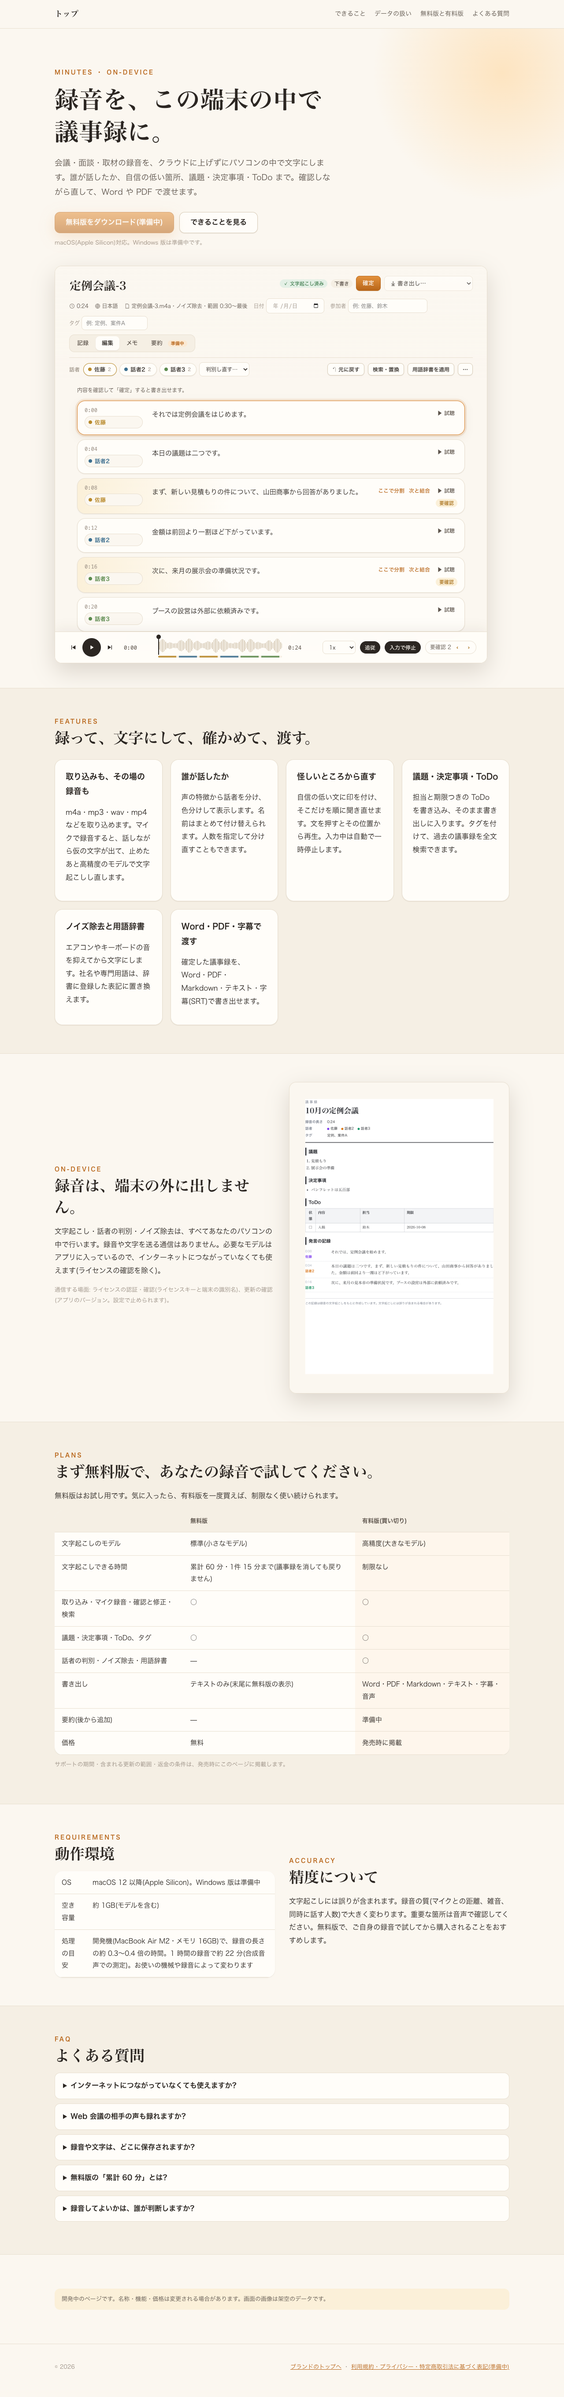
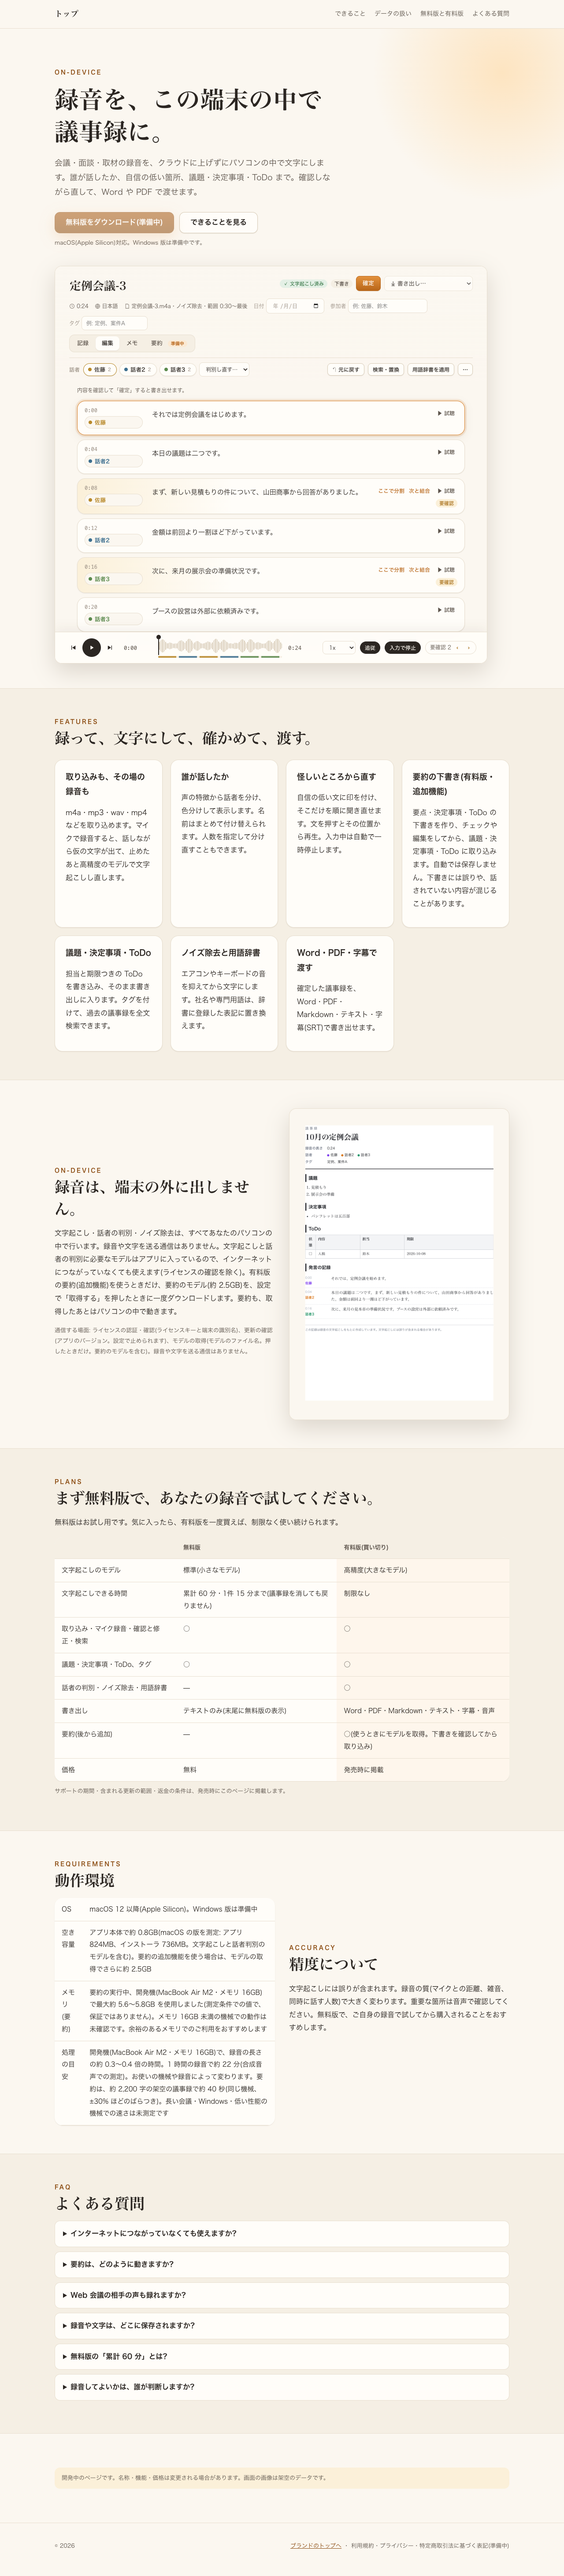
web: 要約の追加機能・空き容量・メモリの記載を実測に合わせて更新、文字色のコントラストとスマホ幅のはみ出し・リンク切れを修正

diff --git a/web/minutes/index.html b/web/minutes/index.html
@@ -5,6 +5,7 @@
   <meta name="viewport" content="width=device-width, initial-scale=1" />
   <title>録音を、この端末の中で議事録に</title>
   <meta name="description" content="会議や面談の録音を、クラウドに上げずにパソコンの中で文字起こし。話者・要確認・議題と ToDo までまとめる買い切りのアプリです。" />
+  <link rel="icon" href="data:," />
   <link rel="stylesheet" href="../site.css" />
 </head>
 <body>
@@ -23,7 +24,7 @@
   <main>
     <section class="hero">
       <div class="wrap">
-        <div class="eyebrow">MINUTES ・ ON-DEVICE</div>
+        <div class="eyebrow">ON-DEVICE</div>
         <h1>録音を、この端末の中で<br />議事録に。</h1>
         <p class="lead">会議・面談・取材の録音を、クラウドに上げずにパソコンの中で文字にします。誰が話したか、自信の低い箇所、議題・決定事項・ToDo まで。確認しながら直して、Word や PDF で渡せます。</p>
         <div class="cta">
@@ -43,6 +44,7 @@
           <div class="card"><h3>取り込みも、その場の録音も</h3><p>m4a・mp3・wav・mp4 などを取り込めます。マイクで録音すると、話しながら仮の文字が出て、止めたあと高精度のモデルで文字起こしし直します。</p></div>
           <div class="card"><h3>誰が話したか</h3><p>声の特徴から話者を分け、色分けして表示します。名前はまとめて付け替えられます。人数を指定して分け直すこともできます。</p></div>
           <div class="card"><h3>怪しいところから直す</h3><p>自信の低い文に印を付け、そこだけを順に聞き直せます。文を押すとその位置から再生。入力中は自動で一時停止します。</p></div>
+          <div class="card"><h3>要約の下書き(有料版・追加機能)</h3><p>要点・決定事項・ToDo の下書きを作り、チェックや編集をしてから、議題・決定事項・ToDo に取り込みます。自動では保存しません。下書きには誤りや、話されていない内容が混じることがあります。</p></div>
           <div class="card"><h3>議題・決定事項・ToDo</h3><p>担当と期限つきの ToDo を書き込み、そのまま書き出しに入ります。タグを付けて、過去の議事録を全文検索できます。</p></div>
           <div class="card"><h3>ノイズ除去と用語辞書</h3><p>エアコンやキーボードの音を抑えてから文字にします。社名や専門用語は、辞書に登録した表記に置き換えます。</p></div>
           <div class="card"><h3>Word・PDF・字幕で渡す</h3><p>確定した議事録を、Word・PDF・Markdown・テキスト・字幕(SRT)で書き出せます。</p></div>
@@ -55,8 +57,8 @@
         <div>
           <div class="eyebrow">ON-DEVICE</div>
           <h2>録音は、端末の外に出しません。</h2>
-          <p>文字起こし・話者の判別・ノイズ除去は、すべてあなたのパソコンの中で行います。録音や文字を送る通信はありません。必要なモデルはアプリに入っているので、インターネットにつながっていなくても使えます(ライセンスの確認を除く)。</p>
-          <p class="small">通信する場面: ライセンスの認証・確認(ライセンスキーと端末の識別名)、更新の確認(アプリのバージョン。設定で止められます)。</p>
+          <p>文字起こし・話者の判別・ノイズ除去は、すべてあなたのパソコンの中で行います。録音や文字を送る通信はありません。文字起こしと話者の判別に必要なモデルはアプリに入っているので、インターネットにつながっていなくても使えます(ライセンスの確認を除く)。有料版の要約(追加機能)を使うときだけ、要約のモデル(約 2.5GB)を、設定で「取得する」を押したときに一度ダウンロードします。要約も、取得したあとはパソコンの中で動きます。</p>
+          <p class="small">通信する場面: ライセンスの認証・確認(ライセンスキーと端末の識別名)、更新の確認(アプリのバージョン。設定で止められます)、モデルの取得(モデルのファイル名。押したときだけ。要約のモデルを含む)。録音や文字を送る通信はありません。</p>
         </div>
         <img class="shot" style="margin-top:0" src="../assets/minutes-pdf.png" alt="PDF に書き出した議事録の例(架空の内容)" />
       </div>
@@ -77,7 +79,7 @@
               <tr><td>議題・決定事項・ToDo、タグ</td><td>○</td><td class="pro">○</td></tr>
               <tr><td>話者の判別・ノイズ除去・用語辞書</td><td>—</td><td class="pro">○</td></tr>
               <tr><td>書き出し</td><td>テキストのみ(末尾に無料版の表示)</td><td class="pro">Word・PDF・Markdown・テキスト・字幕・音声</td></tr>
-              <tr><td>要約(後から追加)</td><td>—</td><td class="pro">準備中</td></tr>
+              <tr><td>要約(後から追加)</td><td>—</td><td class="pro">○(使うときにモデルを取得。下書きを確認してから取り込み)</td></tr>
               <tr><td>価格</td><td>無料</td><td class="pro">発売時に掲載</td></tr>
             </tbody>
           </table>
@@ -94,8 +96,9 @@
           <table>
             <tbody>
               <tr><td>OS</td><td>macOS 12 以降(Apple Silicon)。Windows 版は準備中</td></tr>
-              <tr><td>空き容量</td><td>約 1GB(モデルを含む)</td></tr>
-              <tr><td>処理の目安</td><td>開発機(MacBook Air M2・メモリ 16GB)で、録音の長さの約 0.3〜0.4 倍の時間。1 時間の録音で約 22 分(合成音声での測定)。お使いの機械や録音によって変わります</td></tr>
+              <tr><td>空き容量</td><td>アプリ本体で約 0.8GB(macOS の版を測定: アプリ 824MB、インストーラ 736MB。文字起こしと話者判別のモデルを含む)。要約の追加機能を使う場合は、モデルの取得でさらに約 2.5GB</td></tr>
+              <tr><td>メモリ(要約)</td><td>要約の実行中、開発機(MacBook Air M2・メモリ 16GB)で最大約 5.6〜5.8GB を使用しました(測定条件での値で、保証ではありません)。メモリ 16GB 未満の機械での動作は未確認です。余裕のあるメモリでのご利用をおすすめします</td></tr>
+              <tr><td>処理の目安</td><td>開発機(MacBook Air M2・メモリ 16GB)で、録音の長さの約 0.3〜0.4 倍の時間。1 時間の録音で約 22 分(合成音声での測定)。お使いの機械や録音によって変わります。要約は、約 2,200 字の架空の議事録で約 40 秒(同じ機械、±30% ほどのばらつき)。長い会議・Windows・低い性能の機械での速さは未測定です</td></tr>
             </tbody>
           </table>
         </div>
@@ -111,7 +114,8 @@
       <div class="wrap">
         <div class="eyebrow">FAQ</div>
         <h2>よくある質問</h2>
-        <details><summary>インターネットにつながっていなくても使えますか?</summary><p>文字起こし・話者の判別などはパソコンの中で行うため、通信なしで使えます。ライセンスの確認のために、ときどき通信します(しばらく通信できなくても使い続けられます)。</p></details>
+        <details><summary>インターネットにつながっていなくても使えますか?</summary><p>文字起こし・話者の判別などはパソコンの中で行うため、通信なしで使えます(要約を使うときの、モデルの取得を除く)。ライセンスの確認のために、ときどき通信します(しばらく通信できなくても使い続けられます)。</p></details>
+        <details><summary>要約は、どのように動きますか?</summary><p>有料版の追加機能です。設定で要約のモデル(約 2.5GB)を取得すると、議事録の「要約」から下書きを作れます。要約もパソコンの中で動き、内容は送りません。下書きは必ず画面で確認・修正してから取り込みます。誤りや、話されていない内容が混じることがあります。</p></details>
         <details><summary>Web 会議の相手の声も録れますか?</summary><p>アプリ内の録音はマイクの音が対象です。Web 会議の録音ファイルを取り込んで文字にすることはできます。</p></details>
         <details><summary>録音や文字は、どこに保存されますか?</summary><p>あなたのパソコンの中の、アプリ専用のフォルダです。設定から全データを削除できます。パソコンのディスク暗号化(FileVault など)を有効にしておくことをおすすめします。</p></details>
         <details><summary>無料版の「累計 60 分」とは?</summary><p>これまでに文字起こしした音声の合計の長さです。議事録を消しても戻りません。上限に達したあとは、有料版にすると続きから文字起こしできます。</p></details>
@@ -129,7 +133,7 @@
   <footer>
     <div class="wrap">
       <span>© 2026</span>
-      <span><a href="../">ブランドのトップへ</a> ・ <a href="../legal/">利用規約・プライバシー・特定商取引法に基づく表記(準備中)</a></span>
+      <span><a href="../">ブランドのトップへ</a> ・ 利用規約・プライバシー・特定商取引法に基づく表記(準備中)</span>
     </div>
   </footer>
 </body>

diff --git a/web/site.css b/web/site.css
@@ -2,7 +2,9 @@
 * { box-sizing: border-box; }
 html { scroll-behavior: smooth; }
 body { margin: 0; background: var(--paper); color: var(--ink); font-family: var(--font-ui); font-size: 16px; line-height: 1.85; -webkit-font-smoothing: antialiased; }
-a { color: var(--flame-deep); }
+/* 本文より小さい字・強調の字でも読みやすい濃さにするための、このサイト用の調整(アプリの tokens.css は変えない) */
+:root { --text-soft: #5d544c; --accent-text: #8a4a0f; --accent-btn-1: #a85a14; --accent-btn-2: #8f4d0f; }
+a { color: var(--accent-text); }
 img { max-width: 100%; display: block; }
 .wrap { max-width: 1080px; margin: 0 auto; padding: 0 24px; }
 header.site { position: sticky; top: 0; z-index: 10; background: rgba(251, 247, 240, .9); backdrop-filter: blur(8px); border-bottom: 1px solid var(--line); }
@@ -10,19 +12,19 @@ header.site .wrap { display: flex; align-items: center; gap: 12px; height: 64px;
 header.site .logo { display: flex; align-items: center; gap: 10px; text-decoration: none; color: var(--ink); font-family: var(--font-serif); font-weight: 700; font-size: 18px; }
 header.site nav { margin-left: auto; display: flex; gap: 20px; font-size: 14px; }
 header.site nav a { color: var(--ink-2); text-decoration: none; }
-header.site nav a:hover { color: var(--flame-deep); }
-.btn { display: inline-flex; align-items: center; justify-content: center; gap: 8px; min-height: 48px; padding: 0 24px; border-radius: 12px; font-weight: 700; text-decoration: none; border: 1px solid var(--line-strong); background: var(--surface); color: var(--ink); box-shadow: var(--shadow-1); }
-.btn.primary { background: linear-gradient(180deg, #e3913c, var(--flame-deep)); border-color: var(--flame-deep); color: #fff; box-shadow: 0 10px 30px rgba(217, 130, 43, .3); }
+header.site nav a:hover { color: var(--accent-text); }
+.btn { max-width: 100%; text-align: center; display: inline-flex; align-items: center; justify-content: center; gap: 8px; min-height: 48px; padding: 0 24px; border-radius: 12px; font-weight: 700; text-decoration: none; border: 1px solid var(--line-strong); background: var(--surface); color: var(--ink); box-shadow: var(--shadow-1); }
+.btn.primary { background: linear-gradient(180deg, var(--accent-btn-1), var(--accent-btn-2)); border-color: var(--accent-btn-2); color: #fff; box-shadow: 0 10px 30px rgba(217, 130, 43, .3); }
 .btn[aria-disabled="true"] { opacity: .55; pointer-events: none; }
 .hero { padding: 88px 0 56px; position: relative; overflow: hidden; }
 .hero::before { content: ""; position: absolute; width: 640px; height: 640px; right: -180px; top: -220px; border-radius: 50%; background: radial-gradient(circle, rgba(255, 213, 154, .55), rgba(251, 247, 240, 0) 65%); pointer-events: none; }
-.eyebrow { font-size: 13px; letter-spacing: .24em; color: var(--flame-deep); font-weight: 700; }
+.eyebrow { font-size: 13px; letter-spacing: .24em; color: var(--accent-text); font-weight: 700; }
 h1 { font-family: var(--font-serif); font-size: clamp(32px, 5vw, 54px); line-height: 1.35; margin: 12px 0 18px; letter-spacing: .02em; }
 h2 { font-family: var(--font-serif); font-size: clamp(24px, 3.2vw, 34px); line-height: 1.45; margin: 0 0 14px; }
 h3 { font-size: 18px; margin: 0 0 6px; }
 .lead { font-size: 18px; color: var(--ink-2); max-width: 640px; }
 .cta { display: flex; gap: 12px; flex-wrap: wrap; margin-top: 28px; }
-.small { font-size: 13px; color: var(--ink-3); }
+.small { font-size: 13px; color: var(--text-soft); }
 section { padding: 64px 0; }
 section.alt { background: var(--paper-2); border-top: 1px solid var(--line); border-bottom: 1px solid var(--line); }
 .grid { display: grid; gap: 18px; grid-template-columns: repeat(auto-fit, minmax(240px, 1fr)); }
@@ -37,8 +39,9 @@ td.pro { background: rgba(251, 233, 211, .35); }
 .faq details { background: var(--surface); border: 1px solid var(--line); border-radius: var(--r-md); padding: 14px 18px; margin-bottom: 10px; }
 .faq summary { font-weight: 700; cursor: pointer; }
 .notice { font-size: 13px; color: var(--ink-2); background: var(--warn-soft); border-radius: var(--r-md); padding: 12px 16px; }
-footer { padding: 40px 0 56px; font-size: 13px; color: var(--ink-3); border-top: 1px solid var(--line); }
+footer { padding: 40px 0 56px; font-size: 13px; color: var(--text-soft); border-top: 1px solid var(--line); }
 footer .wrap { display: flex; gap: 24px; flex-wrap: wrap; justify-content: space-between; }
 .product { display: grid; grid-template-columns: 120px 1fr auto; gap: 20px; align-items: center; }
 .product img { width: 120px; border-radius: 12px; border: 1px solid var(--line); }
 .tag { display: inline-block; font-size: 12px; padding: 0 10px; border-radius: 999px; background: var(--night-soft); color: var(--night); font-weight: 700; }
+@media (max-width: 560px) { .product { grid-template-columns: 1fr; } .product img { width: 100%; max-width: 240px; } }

diff --git a/web/index.html b/web/index.html
@@ -5,6 +5,7 @@
   <meta name="viewport" content="width=device-width, initial-scale=1" />
   <title>あなたの記録を、この端末の中で</title>
   <meta name="description" content="録音や書類を、クラウドに上げずに、あなたのパソコンの中で整理する買い切りのアプリのシリーズです。" />
+  <link rel="icon" href="data:," />
   <link rel="stylesheet" href="site.css" />
 </head>
 <body>
@@ -61,7 +62,7 @@
           <a class="btn primary" href="minutes/">詳しく見る</a>
         </div>
         <div class="card product" style="margin-top:12px; opacity:.75">
-          <div style="width:120px;height:80px;border-radius:12px;background:var(--paper-2);display:grid;place-items:center;color:var(--ink-3)">準備中</div>
+          <div style="width:120px;height:80px;border-radius:12px;background:var(--paper-2);display:grid;place-items:center;color:var(--text-soft)">準備中</div>
           <div>
             <h3>次の製品</h3>
             <p>書類や記録を、端末の中で整理する道具を準備しています。</p>
@@ -83,7 +84,7 @@
           <tbody>
             <tr><td>ライセンスの認証・確認</td><td>ライセンスキー、端末の識別名</td></tr>
             <tr><td>更新の確認(止められます)</td><td>アプリのバージョン</td></tr>
-            <tr><td>モデルの取得(必要なときだけ)</td><td>モデルの名前</td></tr>
+            <tr><td>モデルの取得(押したときだけ。要約のモデルを含む)</td><td>モデルのファイル名</td></tr>
           </tbody>
         </table>
       </div>
@@ -102,7 +103,7 @@
   <footer>
     <div class="wrap">
       <span>© 2026</span>
-      <span><a href="legal/">利用規約・プライバシー・特定商取引法に基づく表記(準備中)</a></span>
+      <span>利用規約・プライバシー・特定商取引法に基づく表記(準備中)</span>
     </div>
   </footer>
 </body>

diff --git a/web/404.html b/web/404.html
@@ -10,7 +10,7 @@
     body { margin: 0; min-height: 100vh; display: grid; place-items: center; background: #fbf7f0; color: #2b2622; font-family: system-ui, "Hiragino Sans", "Yu Gothic", sans-serif; line-height: 1.85; }
     main { max-width: 520px; padding: 24px; }
     h1 { font-family: "Hiragino Mincho ProN", "Yu Mincho", serif; font-size: 28px; line-height: 1.4; }
-    a { color: #b8681c; font-weight: 700; }
+    a { color: #8a4a0f; font-weight: 700; }
   </style>
 </head>
 <body>
